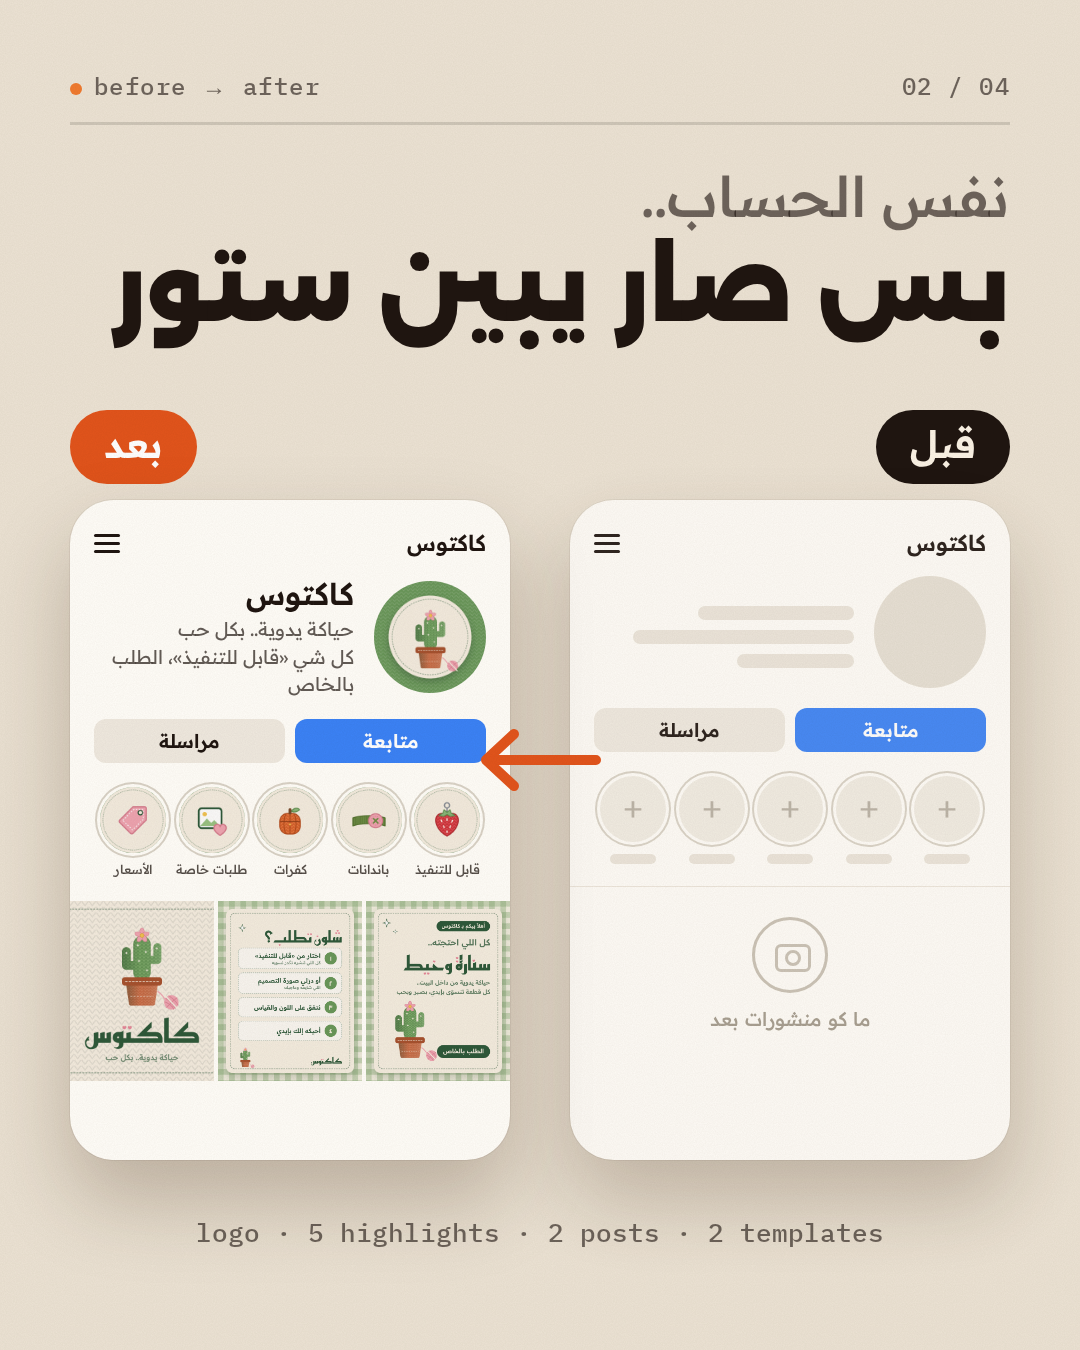
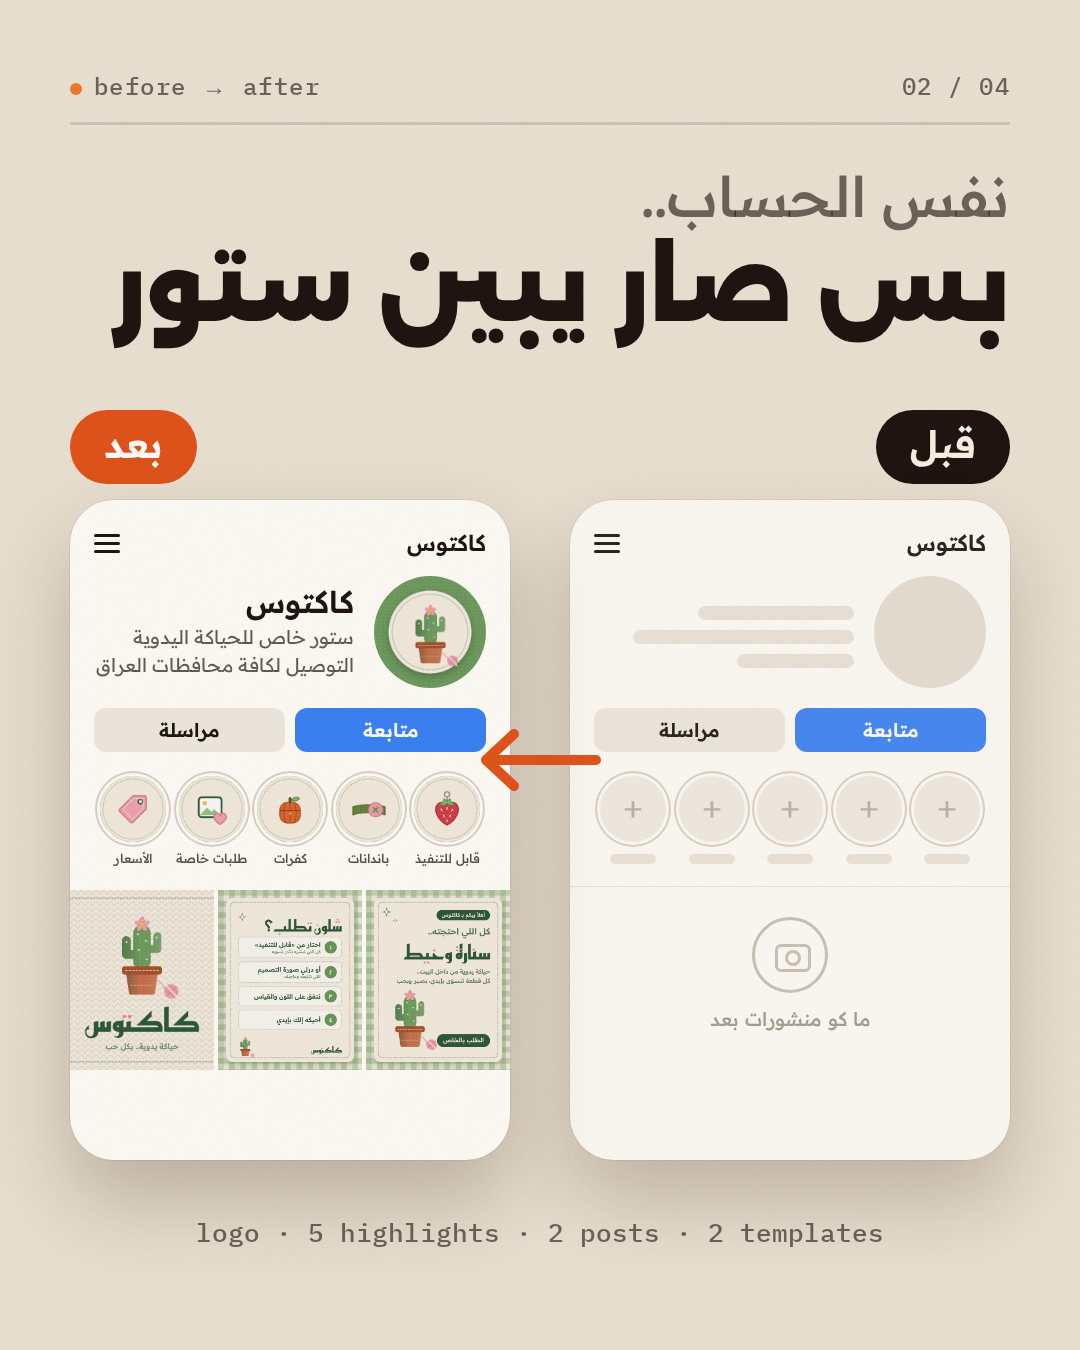
«كاكتوس» showcase: rework the story as name + craft = idea → result
The story now shows the thinking (the name as a text layer + yarn = the
knitted cactus), then her profile with the new identity and callouts.
It uses her real bio and drops the gift wording.

Claude-Session: https://claude.ai/code/session_013oWw8PeK3nbdaZG97hkGWn

Changed region(s): [[0.0611, 0.4044, 0.4889, 0.8089]]

diff --git a/marketing/gift-cactus/showcase.html b/marketing/gift-cactus/showcase.html
@@ -58,8 +58,122 @@ body { background:#333; display:flex; flex-wrap:wrap; gap:40px; padding:40px; wi
 .pm .empty b { display:block; width:76px; height:76px; margin:0 auto 14px; border-radius:50%; border:3px solid #c9c1b4; position:relative }
 .pm .empty b::before { content:""; position:absolute; left:20px; top:24px; width:30px; height:22px; border:3px solid #c9c1b4; border-radius:6px }
 .pm .empty b::after { content:""; position:absolute; left:30px; top:30px; width:10px; height:10px; border:3px solid #c9c1b4; border-radius:50% }
+/* story: equation + callouts */
+.tile { width:270px; height:290px; border-radius:36px; background:#fbf6ec; box-shadow:0 24px 50px rgba(60,35,15,.16); display:flex; flex-direction:column; align-items:center; justify-content:center; gap:14px }
+.tile small { font:500 30px 'Readex Pro'; color:var(--soft) }
+.op { font:900 76px 'Alexandria'; color:var(--orange) }
+.tlayer { position:relative; padding:14px 26px 22px; border:3px dashed var(--ink) }
+.tlayer span { font:600 50px 'Readex Pro'; color:var(--ink) }
+.tlayer i { position:absolute; width:16px; height:16px; background:var(--cream); border:3px solid var(--ink) }
+.tlayer i:nth-of-type(1) { left:-10px; top:-10px } .tlayer i:nth-of-type(2) { right:-10px; top:-10px } .tlayer i:nth-of-type(3) { left:-10px; bottom:-10px } .tlayer i:nth-of-type(4) { right:-10px; bottom:-10px }
+.call { position:absolute; width:250px }
+.call span { display:inline-block; font:600 28px/1.35 'Readex Pro'; color:var(--ink); padding:10px 18px 14px; border-radius:16px; background:#fbf6ec; box-shadow:0 10px 24px rgba(60,35,15,.12) }
+.lines { position:absolute; left:0; top:0; width:1080px; height:1920px; overflow:visible; pointer-events:none }
+.lines path { fill:none; stroke:var(--orange); stroke-width:4; stroke-dasharray:2 9; stroke-linecap:round }
+.lines circle { fill:var(--orange) }
 </style></head>
 <body>
+<svg width="0" height="0" style="position:absolute">
+  <defs>
+    <pattern id="vst" width="30" height="24" patternUnits="userSpaceOnUse">
+      <rect width="30" height="24" fill="#6b9a5b" />
+      <path d="M3 3 L15 20 L27 3" fill="none" stroke="#86b371" stroke-width="5.5" stroke-linecap="round" stroke-linejoin="round" />
+      <path d="M0 0 V24 M30 0 V24" stroke="#5a8a4c" stroke-width="2" />
+    </pattern>
+    <pattern id="vst-pot" width="26" height="20" patternUnits="userSpaceOnUse">
+      <rect width="26" height="20" fill="#c96b45" />
+      <path d="M3 3 L13 16 L23 3" fill="none" stroke="#d98660" stroke-width="4.5" stroke-linecap="round" stroke-linejoin="round" />
+    </pattern>
+    <pattern id="sts-red" width="10" height="8" patternUnits="userSpaceOnUse"><rect width="10" height="8" fill="#d1343b" /><path d="M1 1 L5 6 L9 1" fill="none" stroke="#e2535a" stroke-width="2" stroke-linecap="round" /></pattern>
+    <pattern id="sts-org" width="10" height="8" patternUnits="userSpaceOnUse"><rect width="10" height="8" fill="#d9622b" /><path d="M1 1 L5 6 L9 1" fill="none" stroke="#ea7d45" stroke-width="2" stroke-linecap="round" /></pattern>
+    <pattern id="sts-grn" width="5" height="10" patternUnits="userSpaceOnUse"><rect width="5" height="10" fill="#6f8f45" /><path d="M2.5 0 V10" stroke="#5c7a37" stroke-width="1.6" /></pattern>
+    <linearGradient id="shade" x1="0" x2="1">
+      <stop offset="0" stop-color="#1d3a24" stop-opacity=".35" /><stop offset=".45" stop-color="#1d3a24" stop-opacity="0" /><stop offset="1" stop-color="#fff" stop-opacity=".12" />
+    </linearGradient>
+    <clipPath id="body">
+      <rect x="235" y="140" width="130" height="340" rx="65" />
+      <rect x="150" y="330" width="120" height="66" rx="33" />
+      <rect x="150" y="226" width="66" height="170" rx="33" />
+      <rect x="330" y="292" width="116" height="60" rx="30" />
+      <rect x="386" y="196" width="60" height="156" rx="30" />
+    </clipPath>
+    <symbol id="cactus" viewBox="0 0 600 720">
+      <path d="M420 560 C 480 600, 470 650, 520 655" fill="none" stroke="#f2a7b4" stroke-width="9" stroke-linecap="round" />
+      <g clip-path="url(#body)">
+        <rect x="140" y="130" width="320" height="360" fill="url(#vst)" />
+        <rect x="140" y="130" width="320" height="360" fill="url(#shade)" />
+      </g>
+      <g stroke="#f7f0e3" stroke-width="5" stroke-linecap="round">
+        <path d="M262 212 l14 0 M269 205 l0 14" /><path d="M322 262 l14 0 M329 255 l0 14" /><path d="M270 330 l14 0 M277 323 l0 14" />
+        <path d="M330 400 l14 0 M337 393 l0 14" /><path d="M176 270 l14 0 M183 263 l0 14" /><path d="M404 236 l14 0 M411 229 l0 14" />
+        <path d="M300 160 l12 0 M306 154 l0 12" />
+      </g>
+      <g transform="translate(300 138)">
+        <g fill="#f2a7b4" stroke="#d97f90" stroke-width="3">
+          <ellipse rx="17" ry="30" transform="rotate(0) translate(0 -26)" /><ellipse rx="17" ry="30" transform="rotate(72) translate(0 -26)" />
+          <ellipse rx="17" ry="30" transform="rotate(144) translate(0 -26)" /><ellipse rx="17" ry="30" transform="rotate(216) translate(0 -26)" />
+          <ellipse rx="17" ry="30" transform="rotate(288) translate(0 -26)" />
+        </g>
+        <circle r="15" fill="#f3c552" stroke="#d9a730" stroke-width="3" />
+      </g>
+      <path d="M178 486 H422 L398 650 Q396 664 382 664 H218 Q204 664 202 650 Z" fill="url(#vst-pot)" />
+      <path d="M178 486 H422 L398 650 Q396 664 382 664 H218 Q204 664 202 650 Z" fill="url(#shade)" />
+      <rect x="150" y="452" width="300" height="62" rx="20" fill="#a9532f" />
+      <path d="M176 483 H424" stroke="#f7f0e3" stroke-width="5" stroke-dasharray="14 12" stroke-linecap="round" />
+      <path d="M214 596 H386" stroke="#f7f0e3" stroke-width="4" stroke-dasharray="12 12" stroke-linecap="round" opacity=".8" />
+      <g transform="translate(520 640)">
+        <circle r="54" fill="#f2a7b4" />
+        <g fill="none" stroke="#d97f90" stroke-width="5" stroke-linecap="round">
+          <path d="M-42 -30 C -10 -10, 10 20, 30 46" /><path d="M-52 -4 C -20 6, 10 30, 18 52" /><path d="M-20 -50 C 10 -30, 36 -6, 50 20" /><path d="M-36 38 C -10 10, 20 -20, 44 -34" />
+        </g>
+        <path d="M-80 -86 L 46 48" stroke="#f7f0e3" stroke-width="10" stroke-linecap="round" />
+        <path d="M-80 -86 q -10 -6 -4 -16" fill="none" stroke="#f7f0e3" stroke-width="8" stroke-linecap="round" />
+      </g>
+    </symbol>
+    <!-- a white sparkle, like the doodles in her stories -->
+    <symbol id="spark" viewBox="-50 -50 100 100">
+      <path d="M0 -44 C 5 -9, 9 -5, 44 0 C 9 5, 5 9, 0 44 C -5 9, -9 5, -44 0 C -9 -5, -5 -9, 0 -44 Z" fill="#fff" stroke="#2f5a3a" stroke-width="4" stroke-linejoin="round" />
+    </symbol>
+    <!-- her products, drawn in the same knitted style -->
+    <symbol id="i-strawberry" viewBox="0 0 100 100">
+      <circle cx="50" cy="10" r="7" fill="none" stroke="#8b9097" stroke-width="3.5" />
+      <path d="M50 17 V26" stroke="#8b9097" stroke-width="3.5" stroke-linecap="round" stroke-dasharray="3 2.5" />
+      <path d="M50 94 C 27 82, 16 60, 20 44 C 23 33, 35 29, 50 33 C 65 29, 77 33, 80 44 C 84 60, 73 82, 50 94 Z" fill="url(#sts-red)" stroke="#b02a30" stroke-width="2.5" />
+      <g stroke="#fbeee6" stroke-width="3" stroke-linecap="round"><path d="M34 50 l2 5" /><path d="M50 46 l0 5" /><path d="M65 51 l-2 5" /><path d="M41 66 l1 5" /><path d="M59 66 l-1 5" /><path d="M50 80 l0 4" /></g>
+      <path d="M28 38 L39 31 L42 22 L50 29 L58 22 L61 31 L72 38 L59 40 L50 35 L41 40 Z" fill="#8cb87a" stroke="#5f8f4e" stroke-width="2.5" stroke-linejoin="round" />
+    </symbol>
+    <symbol id="i-headband" viewBox="0 0 100 100">
+      <path d="M6 44 C 30 36, 70 36, 94 44 L94 66 C 70 58, 30 58, 6 66 Z" fill="url(#sts-grn)" stroke="#55732f" stroke-width="2.5" stroke-linejoin="round" />
+      <circle cx="68" cy="52" r="19" fill="#f2a7b4" stroke="#d97f90" stroke-width="3" />
+      <circle cx="68" cy="52" r="12" fill="none" stroke="#e48d9d" stroke-width="2.5" stroke-dasharray="3 3" />
+      <path d="M62 46 L74 58 M74 46 L62 58" stroke="#6f8f45" stroke-width="4" stroke-linecap="round" />
+    </symbol>
+    <symbol id="i-case" viewBox="0 0 100 100">
+      <rect x="22" y="32" width="56" height="56" rx="22" fill="url(#sts-org)" stroke="#b84f20" stroke-width="3" />
+      <g fill="none" stroke="#b84f20" stroke-width="2.5"><path d="M38 34 C 32 50, 32 70, 38 86" /><path d="M62 34 C 68 50, 68 70, 62 86" /><path d="M50 33 V87" /></g>
+      <path d="M23 54 H77" stroke="#8f3d17" stroke-width="3" />
+      <rect x="46" y="18" width="8" height="17" rx="4" fill="#7a4a2a" />
+      <path d="M54 26 C 60 16, 72 16, 76 22 C 70 28, 60 30, 54 26 Z" fill="#8cb87a" stroke="#5f8f4e" stroke-width="2.5" />
+      <circle cx="50" cy="62" r="2.6" fill="#f3c552" />
+    </symbol>
+    <symbol id="i-custom" viewBox="0 0 100 100">
+      <rect x="14" y="18" width="62" height="54" rx="8" fill="#fff" stroke="#2f5a3a" stroke-width="5" />
+      <circle cx="30" cy="34" r="6" fill="#f3c552" />
+      <path d="M18 66 L36 46 L48 58 L56 50 L72 66 Z" fill="#9cc585" />
+      <path d="M72 92 C 54 80, 52 70, 59 64 C 64 60, 70 62, 72 67 C 74 62, 80 60, 85 64 C 92 70, 90 80, 72 92 Z" fill="#f2a7b4" stroke="#d97f90" stroke-width="3.5" />
+    </symbol>
+    <symbol id="i-price" viewBox="0 0 100 100">
+      <path d="M14 50 L50 14 H82 a4 4 0 0 1 4 4 V50 L50 86 a5 5 0 0 1 -7 0 L14 57 a5 5 0 0 1 0 -7 z" fill="#f2a7b4" stroke="#d97f90" stroke-width="3.5" stroke-linejoin="round" />
+      <path d="M22 51 L52 21 H78 V48 L49 77 Z" fill="none" stroke="#fff" stroke-width="2.5" stroke-dasharray="4 4" opacity=".9" />
+      <circle cx="70" cy="30" r="6" fill="#f7f0e3" stroke="#2f5a3a" stroke-width="3" />
+    </symbol>
+  </defs>
+</svg>
+<svg width="0" height="0" style="position:absolute"><defs><symbol id="yarnball" viewBox="420 530 170 175">
+  <g transform="translate(520 640)"><circle r="54" fill="#f2a7b4" />
+    <g fill="none" stroke="#d97f90" stroke-width="5" stroke-linecap="round"><path d="M-42 -30 C -10 -10, 10 20, 30 46" /><path d="M-52 -4 C -20 6, 10 30, 18 52" /><path d="M-20 -50 C 10 -30, 36 -6, 50 20" /><path d="M-36 38 C -10 10, 20 -20, 44 -34" /></g>
+    <path d="M-80 -86 L 46 48" stroke="#2f5a3a" stroke-width="10" stroke-linecap="round" /><path d="M-80 -86 q -10 -6 -4 -16" fill="none" stroke="#2f5a3a" stroke-width="8" stroke-linecap="round" /></g>
+</symbol></defs></svg>
 
 <template id="pm-before">
   <div class="bar"><span>كاكتوس</span><i></i></div>
@@ -70,7 +184,7 @@ body { background:#333; display:flex; flex-wrap:wrap; gap:40px; padding:40px; wi
 </template>
 <template id="pm-after">
   <div class="bar"><span>كاكتوس</span><i></i></div>
-  <div class="head"><div class="av" style="background-image:url(out/avatar.png)"></div><div style="flex:1"><div class="nm">كاكتوس</div><div class="bio">حياكة يدوية.. بكل حب<br />كل شي «قابل للتنفيذ»، الطلب بالخاص</div></div></div>
+  <div class="head"><div class="av" style="background-image:url(out/avatar.png)"></div><div style="flex:1"><div class="nm">كاكتوس</div><div class="bio">ستور خاص للحياكة اليدوية<br />التوصيل لكافة محافظات العراق</div></div></div>
   <div class="btns"><span class="b">متابعة</span><span>مراسلة</span></div>
   <div class="hls">
     <div><div class="c" style="background-image:url(out/hl-ready.png)"></div><small>قابل للتنفيذ</small></div>
@@ -87,7 +201,7 @@ body { background:#333; display:flex; flex-wrap:wrap; gap:40px; padding:40px; wi
   <div class="top"><span><span class="dot"></span>allawi.psd · case study</span><span>01 / 04</span></div>
   <div class="rule"></div>
   <div class="block" style="top:170px;">
-    <div class="lead">هدية لستور جديد</div>
+    <div class="lead">هوية لستور حياكة يدوية</div>
     <div class="hero">من حساب جديد..</div>
     <div class="hl"><div class="box"></div><i class="hd r"></i><i class="hd l"></i><div class="hero">لهوية كاملة</div></div>
   </div>
@@ -149,31 +263,48 @@ body { background:#333; display:flex; flex-wrap:wrap; gap:40px; padding:40px; wi
   <div class="mono" style="position:absolute; left:70px; top:1220px;">@allawi.psd</div>
 </div>
 
-<!-- story for the «أعمالي» highlight -->
+<!-- story for the «أعمالي» highlight: name + craft = idea, then the result with callouts -->
 <div class="art tall" id="story">
   <div class="top" style="top:140px;"><span><span class="dot"></span>allawi.psd · case study</span><span>كاكتوس</span></div>
   <div class="rule" style="top:192px;"></div>
-  <div class="block" style="top:240px;">
-    <div class="lead">هدية لستور جديد</div>
-    <div class="hero">من حساب جديد..</div>
-    <div class="hl"><div class="box"></div><i class="hd r"></i><i class="hd l"></i><div class="hero">لهوية كاملة</div></div>
+  <div class="block" style="top:236px;">
+    <div class="lead" style="font-size:52px;">من اسم وفكرة..</div>
+    <div class="hl" style="margin-top:30px;"><div class="box"></div><i class="hd r"></i><i class="hd l"></i><div class="hero" style="font-size:112px;">لهوية كاملة</div></div>
   </div>
-  <div style="position:absolute; left:70px; top:720px;"><span class="pill or">بعد</span></div>
-  <div class="pm" id="pm-a2" style="left:70px; top:800px; transform:scale(1.36);"></div>
-  <div class="pm" id="pm-b2" style="right:60px; top:1270px; transform:rotate(4deg) scale(.62); transform-origin:100% 0; opacity:.95;"></div>
-  <div style="position:absolute; right:110px; top:1190px; transform:rotate(4deg);"><span class="pill ink" style="font-size:32px;">قبل</span></div>
+  <!-- the equation -->
+  <div class="eq" style="position:absolute; left:70px; right:70px; top:560px; height:300px; display:flex; align-items:center; justify-content:space-between; direction:rtl;">
+    <div class="tile"><div class="tlayer"><span>كاكتوس</span><i></i><i></i><i></i><i></i></div><small>الاسم</small></div>
+    <b class="op">+</b>
+    <div class="tile"><svg style="width:170px; height:175px;"><use href="#yarnball" /></svg><small>الحياكة</small></div>
+    <b class="op">=</b>
+    <div class="tile"><svg style="width:190px; height:228px;" viewBox="0 0 600 720"><use href="#cactus" /></svg><small>الفكرة</small></div>
+  </div>
+  <!-- the result -->
+  <div class="pm" id="pm-a2" style="left:309px; top:935px; transform:scale(1.05);"></div>
+  <div class="call" style="right:36px; top:1030px;"><span>لوگو<br />كاكتوس محيوك</span></div>
+  <svg class="lines" viewBox="0 0 1080 1920"><path d="M738 1074 H800" /><circle cx="738" cy="1074" r="7" /></svg>
+  <div class="call" style="left:36px; top:1228px; text-align:left;"><span>هايلايت<br />لكل قسم</span></div>
+  <svg class="lines" viewBox="0 0 1080 1920"><path d="M360 1272 H270" /><circle cx="360" cy="1272" r="7" /></svg>
+  <div class="call" style="right:36px; top:1438px;"><span>بوستات<br />وقوالب جاهزة</span></div>
+  <svg class="lines" viewBox="0 0 1080 1920"><path d="M740 1480 H800" /><circle cx="740" cy="1480" r="7" /></svg>
+  <div style="position:absolute; left:70px; right:70px; top:1690px; display:flex; justify-content:space-between; align-items:center;">
+    <span style="font:600 40px 'Readex Pro';">تريد هوية لمشروعك؟</span>
+    <span class="pill or" style="font-size:36px;">راسلني</span>
+  </div>
 </div>
 
 <script>
-for (const [id, tpl] of [['pm-b1', 'pm-before'], ['pm-a1', 'pm-after'], ['pm-a2', 'pm-after'], ['pm-b2', 'pm-before']])
+for (const [id, tpl] of [['pm-b1', 'pm-before'], ['pm-a1', 'pm-after'], ['pm-a2', 'pm-after']])
   document.getElementById(id).appendChild(document.getElementById(tpl).content.cloneNode(true));
 const imgs = [...document.querySelectorAll('img')].map((i) => (i.complete ? 0 : new Promise((r) => (i.onload = i.onerror = r))));
 Promise.all([
   document.fonts.load("900 104px 'Alexandria'", 'من حساب جديد.. لهوية كاملة بس صار يبين ستور سنارة وخيط خلّي حسابه يبين احترافي 14 ألف'),
-  document.fonts.load("500 56px 'Readex Pro'", 'هدية لستور جديد نفس الحساب.. مبنية على شغلها وكلامها مشروعك جديد؟ التصميم يبدي من'),
-  document.fonts.load("600 38px 'Readex Pro'", 'قبل بعد راسلني هسه متابعة مراسلة كاكتوس'),
+  document.fonts.load("500 56px 'Readex Pro'", 'هوية لستور حياكة يدوية نفس الحساب.. مبنية على شغلها وكلامها مشروعك جديد؟ التصميم يبدي من'),
+  document.fonts.load("600 38px 'Readex Pro'", 'قبل بعد راسلني هسه متابعة مراسلة كاكتوس تريد هوية لمشروعك؟ لوگو كاكتوس محيوك هايلايت لكل قسم بوستات وقوالب جاهزة'),
+  document.fonts.load("700 60px 'Reem Kufi Fun'", 'كاكتوس'),
   document.fonts.load("700 30px 'Readex Pro'", 'كاكتوس'),
-  document.fonts.load("400 19px 'Readex Pro'", 'حياكة يدوية.. بكل حب كل شي «قابل للتنفيذ»، الطلب بالخاص ما كو منشورات بعد'),
+  document.fonts.load("400 19px 'Readex Pro'", 'ستور خاص للحياكة اليدوية التوصيل لكافة محافظات العراق ما كو منشورات بعد'),
+  document.fonts.load("500 30px 'Readex Pro'", 'الاسم الحياكة الفكرة هوية لستور حياكة يدوية من اسم وفكرة..'),
   document.fonts.load("500 24px 'IBM Plex Mono'", 'allawi.psd case study before after posts templates swipe 01 / 04'),
   ...imgs,
 ]).then(() => document.fonts.ready).then(() => (document.body.dataset.ready = 1));

diff --git a/marketing/gift-cactus/README.md b/marketing/gift-cactus/README.md
@@ -56,6 +56,10 @@ Posted with the store's OK. `node render.cjs --page showcase.html` renders `out/
   2. before/after profile mocks;
   3. posts and templates;
   4. the CTA, «راسلني هسه» and «التصميم يبدي من 14 ألف».
-- `story`: a 1080x1920 story for the «أعمالي» highlight.
+- `story`: a 1080x1920 story for the «أعمالي» highlight, «من اسم وفكرة.. [لهوية كاملة]».
+  - An equation: the name «كاكتوس» as a plain text layer + yarn = the knitted cactus.
+  - The result: her profile with the new identity and her real bio, with callouts on the logo, the highlights and the posts.
+  - A small «تريد هوية لمشروعك؟ راسلني».
+  - It never mentions a gift.
 
 The "before" is a generic empty new account, not her real profile, and no product photos are used.
